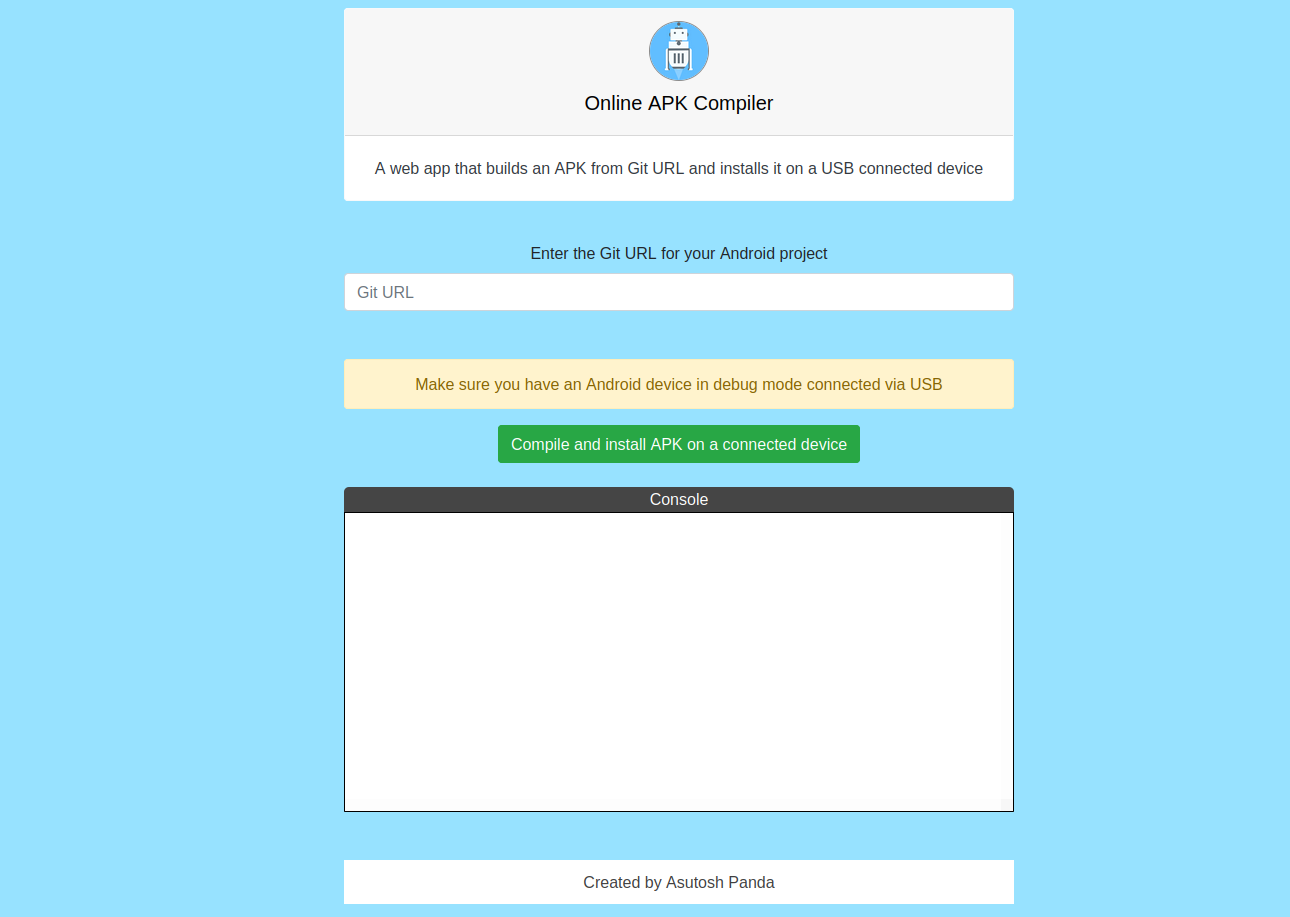
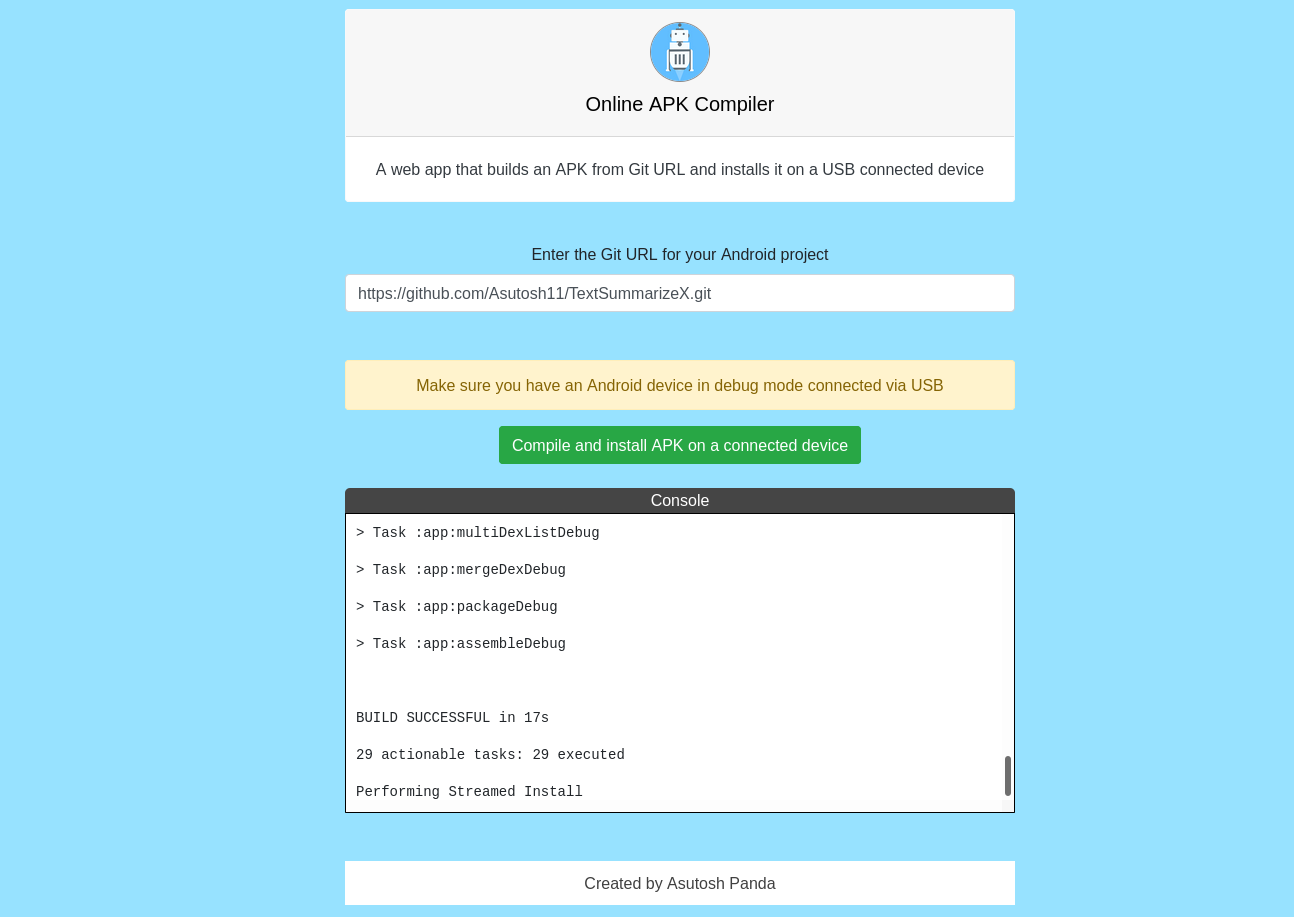
update build tools installer script and apk installation script, update screenshot

diff --git a/apk_installer_script.py b/apk_installer_script.py
@@ -19,7 +19,7 @@ def process_html_input():
     git_url = request.form.get("giturl") 
     
     def inner():
-        command = ['sh', 'android_sdk_tools_installer.sh', git_url]
+        command = ['sh', 'apk_installer_from_git.sh', git_url]
         subprocess.call(command) 
         proc = subprocess.Popen(
             command,
@@ -35,4 +35,4 @@ def process_html_input():
     return Response(tmpl.generate(result=result if result is None else result()))
     
 if __name__=='__main__': 
-    app.run()
+    app.run(port=8000)
